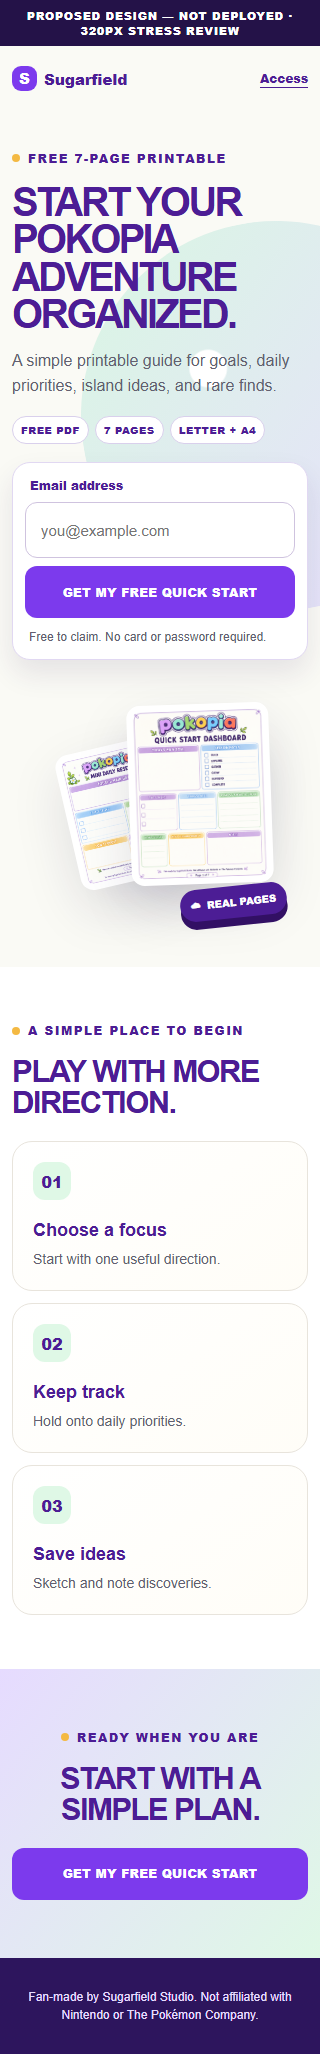
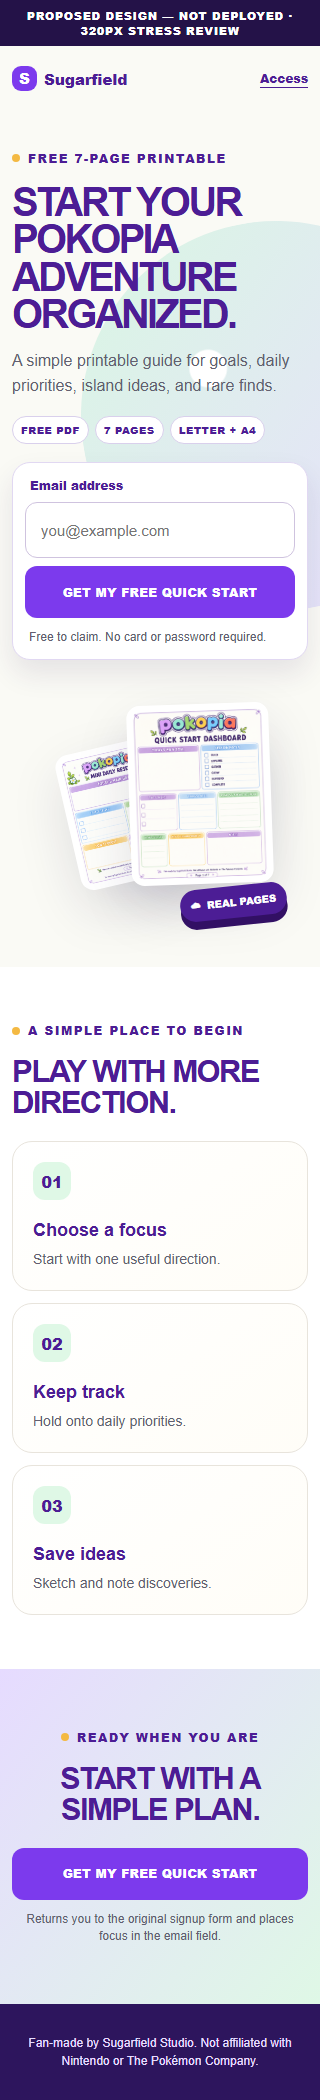
docs: finalize Pokopia Quick Start design approval

diff --git a/docs/funnel-design/phase-2a/previews/quick-start-proposed-1440.html b/docs/funnel-design/phase-2a/previews/quick-start-proposed-1440.html
@@ -1,1 +1,1 @@
-<!doctype html><html lang="en"><head><meta charset="utf-8"><meta name="viewport" content="width=device-width,initial-scale=1"><title>Proposed Pokopia Quick Start — 1440</title><link rel="stylesheet" href="mockup.css"></head><body><p class="proposal">PROPOSED DESIGN — NOT DEPLOYED · 1440PX REVIEW</p><main class="shell"><header class="topbar"><span class="brand"><b>S</b>Sugarfield Studio</span><a class="access" href="#access">Already have access?</a></header><section class="hero"><div class="hero-copy"><p class="eyebrow">FREE 7-PAGE POKOPIA PRINTABLE</p><h1>START YOUR POKOPIA ADVENTURE ORGANIZED.</h1><p class="lede">Plan your next Pokopia session with a simple printable guide for goals, daily priorities, island ideas, and rare finds.</p><div class="facts"><span>FREE PDF</span><span>7 PAGES</span><span>US LETTER + A4</span></div><form class="form-card"><label>Email address</label><div class="form-row"><input placeholder="you@example.com" aria-label="Email address"><button>GET MY FREE QUICK START</button></div><p class="micro">Free to claim. No card or password required.</p></form></div><div class="hero-art art"><figure class="sheet one"><img src="../../../../public/assets/products/pokopia/quick-start/P01_Quick_Start_Dashboard_US_Letter.png" alt="Quick Start Dashboard"></figure><figure class="sheet two"><img src="../../../../public/assets/products/pokopia/quick-start/P02_Mini_Daily_Reset_US_Letter.png" alt="Mini Daily Reset"></figure><figure class="sheet three"><img src="../../../../public/assets/products/pokopia/quick-start/P03_What_Should_I_Work_On_Next_US_Letter.png" alt="What Should I Work On Next"></figure><div class="cloud">REAL PRINTABLE PAGES</div></div></section><section class="band problems"><div class="inner"><p class="eyebrow">A SIMPLE PLACE TO BEGIN</p><h2 class="section-title">WHEN YOU WANT TO PLAY, NOT WONDER WHAT TO DO NEXT.</h2><div class="problem-grid"><article class="problem"><i>01</i><h3>Start with a focus</h3><p>Choose a useful direction for the session before the map gets busy.</p></article><article class="problem"><i>02</i><h3>Remember small tasks</h3><p>Keep daily priorities in one practical, printable place.</p></article><article class="problem"><i>03</i><h3>Save your ideas</h3><p>Make room for island sketches and rare-finds notes as you play.</p></article></div></div></section><section class="band inside"><div class="inner"><p class="eyebrow">A REAL FIVE-PAGE PREVIEW</p><h2 class="section-title">SEE WHAT YOU’LL USE BEFORE YOU CLAIM IT.</h2><p class="section-copy">The pack contains seven pages. These are the five approved preview pages currently available for customer-facing display.</p><div class="preview-grid"><article class="preview-card primary"><img src="../../../../public/assets/products/pokopia/quick-start/P01_Quick_Start_Dashboard_US_Letter.png" alt="Quick Start Dashboard preview"><p>Quick Start Dashboard — set your session focus.</p></article><article class="preview-card"><img src="../../../../public/assets/products/pokopia/quick-start/P02_Mini_Daily_Reset_US_Letter.png" alt="Mini Daily Reset preview"><p>Mini Daily Reset — keep priorities close.</p></article><article class="preview-card"><img src="../../../../public/assets/products/pokopia/quick-start/P05_Rare_Finds_Notes_US_Letter.png" alt="Rare Finds Notes preview"><p>Rare Finds Notes — save discoveries.</p></article></div></div></section><section class="band how"><div class="inner"><p class="eyebrow">HOW ACCESS WORKS</p><h2 class="section-title">A SMALL, SECURE START.</h2><div class="steps"><article class="step"><b>01</b><h3>Enter your email</h3><p>Use the form above to claim the free Quick Start Pack.</p></article><article class="step"><b>02</b><h3>Claim the guide</h3><p>Your claim starts the secure Quick Start access flow.</p></article><article class="step"><b>03</b><h3>Choose a format</h3><p>Access the US Letter or A4 PDF when your access is available.</p></article></div></div></section><section class="band useful"><div class="inner useful-grid"><figure class="closeup"><img src="../../../../public/assets/products/pokopia/quick-start/P04_Quick_Cloud_Island_Sketch_US_Letter.png" alt="Quick Cloud Island Sketch"></figure><div><p class="eyebrow">FOR YOUR NEXT SESSION</p><h2 class="section-title">A LIGHTWEIGHT GUIDE FOR THE MOMENTS YOU WANT A LITTLE DIRECTION.</h2><ul class="checks"><li>Set a goal before you begin.</li><li>Keep daily priorities visible.</li><li>Capture a cloud-island sketch.</li><li>Make a home for rare-finds notes.</li></ul></div></div></section><section id="access" class="final"><div class="inner"><p class="eyebrow">READY WHEN YOU ARE</p><h2 class="section-title">START YOUR NEXT SESSION WITH A SIMPLE PLAN.</h2><p class="section-copy">Claim the free seven-page printable pack. US Letter and A4 formats are included.</p><form class="form-card"><label>Email address</label><div class="form-row"><input placeholder="you@example.com" aria-label="Email address"><button>GET MY FREE QUICK START</button></div><p class="micro">In implementation, this action scrolls and focuses the single primary signup form rather than creating a second submission path.</p></form></div></section><footer class="footer">Fan-made by Sugarfield Studio. Not affiliated with Nintendo or The Pokémon Company. · <a href="#">Privacy</a> · <a href="#">Terms</a></footer></main></body></html>
+<!doctype html><html lang="en"><head><meta charset="utf-8"><meta name="viewport" content="width=device-width,initial-scale=1"><title>Proposed Pokopia Quick Start — 1440</title><link rel="stylesheet" href="mockup.css"></head><body><p class="proposal">PROPOSED DESIGN — NOT DEPLOYED · 1440PX REVIEW</p><main class="shell"><header class="topbar"><span class="brand"><b>S</b>Sugarfield Studio</span><a class="access" href="#access">Already have access?</a></header><section class="hero"><div class="hero-copy"><p class="eyebrow">FREE 7-PAGE POKOPIA PRINTABLE</p><h1>START YOUR POKOPIA ADVENTURE ORGANIZED.</h1><p class="lede">Plan your next Pokopia session with a simple printable guide for goals, daily priorities, island ideas, and rare finds.</p><div class="facts"><span>FREE PDF</span><span>7 PAGES</span><span>US LETTER + A4</span></div><form class="form-card"><label>Email address</label><div class="form-row"><input id="original-signup-form" placeholder="you@example.com" aria-label="Email address"><button>GET MY FREE QUICK START</button></div><p class="micro">Free to claim. No card or password required.</p></form></div><div class="hero-art art"><figure class="sheet one"><img src="../../../../public/assets/products/pokopia/quick-start/P01_Quick_Start_Dashboard_US_Letter.png" alt="Quick Start Dashboard"></figure><figure class="sheet two"><img src="../../../../public/assets/products/pokopia/quick-start/P02_Mini_Daily_Reset_US_Letter.png" alt="Mini Daily Reset"></figure><figure class="sheet three"><img src="../../../../public/assets/products/pokopia/quick-start/P03_What_Should_I_Work_On_Next_US_Letter.png" alt="What Should I Work On Next"></figure><div class="cloud">REAL PRINTABLE PAGES</div></div></section><section class="band problems"><div class="inner"><p class="eyebrow">A SIMPLE PLACE TO BEGIN</p><h2 class="section-title">WHEN YOU WANT TO PLAY, NOT WONDER WHAT TO DO NEXT.</h2><div class="problem-grid"><article class="problem"><i>01</i><h3>Start with a focus</h3><p>Choose a useful direction for the session before the map gets busy.</p></article><article class="problem"><i>02</i><h3>Remember small tasks</h3><p>Keep daily priorities in one practical, printable place.</p></article><article class="problem"><i>03</i><h3>Save your ideas</h3><p>Make room for island sketches and rare-finds notes as you play.</p></article></div></div></section><section class="band inside"><div class="inner"><p class="eyebrow">A REAL FIVE-PAGE PREVIEW</p><h2 class="section-title">SEE WHAT YOU’LL USE BEFORE YOU CLAIM IT.</h2><p class="section-copy">The pack contains seven pages. These are the five approved preview pages currently available for customer-facing display.</p><div class="preview-grid"><article class="preview-card primary"><img src="../../../../public/assets/products/pokopia/quick-start/P01_Quick_Start_Dashboard_US_Letter.png" alt="Quick Start Dashboard preview"><p>Quick Start Dashboard — set your session focus.</p></article><article class="preview-card"><img src="../../../../public/assets/products/pokopia/quick-start/P02_Mini_Daily_Reset_US_Letter.png" alt="Mini Daily Reset preview"><p>Mini Daily Reset — keep priorities close.</p></article><article class="preview-card"><img src="../../../../public/assets/products/pokopia/quick-start/P05_Rare_Finds_Notes_US_Letter.png" alt="Rare Finds Notes preview"><p>Rare Finds Notes — save discoveries.</p></article></div></div></section><section class="band how"><div class="inner"><p class="eyebrow">HOW ACCESS WORKS</p><h2 class="section-title">A SMALL, SECURE START.</h2><div class="steps"><article class="step"><b>01</b><h3>Enter your email</h3><p>Use the form above to claim the free Quick Start Pack.</p></article><article class="step"><b>02</b><h3>Claim the guide</h3><p>Your claim starts the secure Quick Start access flow.</p></article><article class="step"><b>03</b><h3>Choose a format</h3><p>Access the US Letter or A4 PDF when your access is available.</p></article></div></div></section><section class="band useful"><div class="inner useful-grid"><figure class="closeup"><img src="../../../../public/assets/products/pokopia/quick-start/P04_Quick_Cloud_Island_Sketch_US_Letter.png" alt="Quick Cloud Island Sketch"></figure><div><p class="eyebrow">FOR YOUR NEXT SESSION</p><h2 class="section-title">A LIGHTWEIGHT GUIDE FOR THE MOMENTS YOU WANT A LITTLE DIRECTION.</h2><ul class="checks"><li>Set a goal before you begin.</li><li>Keep daily priorities visible.</li><li>Capture a cloud-island sketch.</li><li>Make a home for rare-finds notes.</li></ul></div></div></section><section id="access" class="final"><div class="inner"><p class="eyebrow">READY WHEN YOU ARE</p><h2 class="section-title">START YOUR NEXT SESSION WITH A SIMPLE PLAN.</h2><p class="section-copy">Claim the free seven-page printable pack. US Letter and A4 formats are included.</p><a class="button" href="#original-signup-form">GET MY FREE QUICK START</a><p class="micro">Returns you to the original signup form and places focus in the email field.</p></div></section><footer class="footer">Fan-made by Sugarfield Studio. Not affiliated with Nintendo or The Pokémon Company. · <a href="#">Privacy</a> · <a href="#">Terms</a></footer></main></body></html>

diff --git a/docs/funnel-design/phase-2a/previews/quick-start-proposed-390.html b/docs/funnel-design/phase-2a/previews/quick-start-proposed-390.html
@@ -1,1 +1,1 @@
-<!doctype html><html lang="en"><head><meta charset="utf-8"><meta name="viewport" content="width=device-width,initial-scale=1"><title>Proposed Pokopia Quick Start — 390</title><link rel="stylesheet" href="mockup.css"></head><body><p class="proposal">PROPOSED DESIGN — NOT DEPLOYED · 390PX REVIEW</p><main class="shell"><header class="topbar"><span class="brand"><b>S</b>Sugarfield Studio</span><a class="access" href="#access">Access</a></header><section class="hero"><div class="hero-copy"><p class="eyebrow">FREE 7-PAGE POKOPIA PRINTABLE</p><h1>START YOUR POKOPIA ADVENTURE ORGANIZED.</h1><p class="lede">Plan your next Pokopia session with a simple printable guide for goals, daily priorities, island ideas, and rare finds.</p><div class="facts"><span>FREE PDF</span><span>7 PAGES</span><span>US LETTER + A4</span></div><form class="form-card"><label>Email address</label><div class="form-row"><input placeholder="you@example.com" aria-label="Email address"><button>GET MY FREE QUICK START</button></div><p class="micro">Free to claim. No card or password required.</p></form></div><div class="hero-art art"><figure class="sheet one"><img src="../../../../public/assets/products/pokopia/quick-start/P01_Quick_Start_Dashboard_US_Letter.png" alt="Quick Start Dashboard"></figure><figure class="sheet two"><img src="../../../../public/assets/products/pokopia/quick-start/P02_Mini_Daily_Reset_US_Letter.png" alt="Mini Daily Reset"></figure><figure class="sheet three"><img src="../../../../public/assets/products/pokopia/quick-start/P03_What_Should_I_Work_On_Next_US_Letter.png" alt="What Should I Work On Next"></figure><div class="cloud">REAL PAGES</div></div></section><section class="band problems"><div class="inner"><p class="eyebrow">A SIMPLE PLACE TO BEGIN</p><h2 class="section-title">PLAY WITH A LITTLE MORE DIRECTION.</h2><div class="problem-grid"><article class="problem"><i>01</i><h3>Choose a focus</h3><p>Start with one useful direction.</p></article><article class="problem"><i>02</i><h3>Keep track</h3><p>Hold onto daily priorities.</p></article><article class="problem"><i>03</i><h3>Save ideas</h3><p>Sketch and note discoveries.</p></article></div></div></section><section class="band inside"><div class="inner"><p class="eyebrow">A REAL FIVE-PAGE PREVIEW</p><h2 class="section-title">A FEW PAGES YOU CAN USE RIGHT AWAY.</h2><div class="preview-grid"><article class="preview-card primary"><img src="../../../../public/assets/products/pokopia/quick-start/P01_Quick_Start_Dashboard_US_Letter.png" alt="Quick Start Dashboard"><p>Quick Start Dashboard</p></article><article class="preview-card"><img src="../../../../public/assets/products/pokopia/quick-start/P02_Mini_Daily_Reset_US_Letter.png" alt="Mini Daily Reset"><p>Mini Daily Reset</p></article><article class="preview-card"><img src="../../../../public/assets/products/pokopia/quick-start/P05_Rare_Finds_Notes_US_Letter.png" alt="Rare Finds Notes"><p>Rare Finds Notes</p></article></div></div></section><section class="band how"><div class="inner"><p class="eyebrow">HOW ACCESS WORKS</p><div class="steps"><article class="step"><b>01</b><h3>Enter your email</h3><p>Claim the free guide.</p></article><article class="step"><b>02</b><h3>Secure access</h3><p>Your Quick Start access is prepared.</p></article><article class="step"><b>03</b><h3>Pick a format</h3><p>Choose US Letter or A4.</p></article></div></div></section><section id="access" class="final"><div class="inner"><p class="eyebrow">READY WHEN YOU ARE</p><h2 class="section-title">START WITH A SIMPLE PLAN.</h2><a class="button" href="#">GET MY FREE QUICK START</a></div></section><footer class="footer">Fan-made by Sugarfield Studio. Not affiliated with Nintendo or The Pokémon Company.</footer></main></body></html>
+<!doctype html><html lang="en"><head><meta charset="utf-8"><meta name="viewport" content="width=device-width,initial-scale=1"><title>Proposed Pokopia Quick Start — 390</title><link rel="stylesheet" href="mockup.css"></head><body><p class="proposal">PROPOSED DESIGN — NOT DEPLOYED · 390PX REVIEW</p><main class="shell"><header class="topbar"><span class="brand"><b>S</b>Sugarfield Studio</span><a class="access" href="#access">Access</a></header><section class="hero"><div class="hero-copy"><p class="eyebrow">FREE 7-PAGE POKOPIA PRINTABLE</p><h1>START YOUR POKOPIA ADVENTURE ORGANIZED.</h1><p class="lede">Plan your next Pokopia session with a simple printable guide for goals, daily priorities, island ideas, and rare finds.</p><div class="facts"><span>FREE PDF</span><span>7 PAGES</span><span>US LETTER + A4</span></div><form class="form-card"><label>Email address</label><div class="form-row"><input id="original-signup-form" placeholder="you@example.com" aria-label="Email address"><button>GET MY FREE QUICK START</button></div><p class="micro">Free to claim. No card or password required.</p></form></div><div class="hero-art art"><figure class="sheet one"><img src="../../../../public/assets/products/pokopia/quick-start/P01_Quick_Start_Dashboard_US_Letter.png" alt="Quick Start Dashboard"></figure><figure class="sheet two"><img src="../../../../public/assets/products/pokopia/quick-start/P02_Mini_Daily_Reset_US_Letter.png" alt="Mini Daily Reset"></figure><figure class="sheet three"><img src="../../../../public/assets/products/pokopia/quick-start/P03_What_Should_I_Work_On_Next_US_Letter.png" alt="What Should I Work On Next"></figure><div class="cloud">REAL PAGES</div></div></section><section class="band problems"><div class="inner"><p class="eyebrow">A SIMPLE PLACE TO BEGIN</p><h2 class="section-title">PLAY WITH A LITTLE MORE DIRECTION.</h2><div class="problem-grid"><article class="problem"><i>01</i><h3>Choose a focus</h3><p>Start with one useful direction.</p></article><article class="problem"><i>02</i><h3>Keep track</h3><p>Hold onto daily priorities.</p></article><article class="problem"><i>03</i><h3>Save ideas</h3><p>Sketch and note discoveries.</p></article></div></div></section><section class="band inside"><div class="inner"><p class="eyebrow">A REAL FIVE-PAGE PREVIEW</p><h2 class="section-title">A FEW PAGES YOU CAN USE RIGHT AWAY.</h2><div class="preview-grid"><article class="preview-card primary"><img src="../../../../public/assets/products/pokopia/quick-start/P01_Quick_Start_Dashboard_US_Letter.png" alt="Quick Start Dashboard"><p>Quick Start Dashboard</p></article><article class="preview-card"><img src="../../../../public/assets/products/pokopia/quick-start/P02_Mini_Daily_Reset_US_Letter.png" alt="Mini Daily Reset"><p>Mini Daily Reset</p></article><article class="preview-card"><img src="../../../../public/assets/products/pokopia/quick-start/P05_Rare_Finds_Notes_US_Letter.png" alt="Rare Finds Notes"><p>Rare Finds Notes</p></article></div></div></section><section class="band how"><div class="inner"><p class="eyebrow">HOW ACCESS WORKS</p><div class="steps"><article class="step"><b>01</b><h3>Enter your email</h3><p>Claim the free guide.</p></article><article class="step"><b>02</b><h3>Secure access</h3><p>Your Quick Start access is prepared.</p></article><article class="step"><b>03</b><h3>Pick a format</h3><p>Choose US Letter or A4.</p></article></div></div></section><section id="access" class="final"><div class="inner"><p class="eyebrow">READY WHEN YOU ARE</p><h2 class="section-title">START WITH A SIMPLE PLAN.</h2><a class="button" href="#original-signup-form">GET MY FREE QUICK START</a><p class="micro">Returns you to the original signup form and places focus in the email field.</p></div></section><footer class="footer">Fan-made by Sugarfield Studio. Not affiliated with Nintendo or The Pokémon Company.</footer></main></body></html>

diff --git a/docs/funnel-design/phase-2a/previews/quick-start-proposed-320.html b/docs/funnel-design/phase-2a/previews/quick-start-proposed-320.html
@@ -1,1 +1,1 @@
-<!doctype html><html lang="en"><head><meta charset="utf-8"><meta name="viewport" content="width=device-width,initial-scale=1"><title>Proposed Pokopia Quick Start — 320</title><link rel="stylesheet" href="mockup.css"></head><body><p class="proposal">PROPOSED DESIGN — NOT DEPLOYED · 320PX STRESS REVIEW</p><main class="shell"><header class="topbar"><span class="brand"><b>S</b>Sugarfield</span><a class="access" href="#access">Access</a></header><section class="hero"><div class="hero-copy"><p class="eyebrow">FREE 7-PAGE PRINTABLE</p><h1>START YOUR POKOPIA ADVENTURE ORGANIZED.</h1><p class="lede">A simple printable guide for goals, daily priorities, island ideas, and rare finds.</p><div class="facts"><span>FREE PDF</span><span>7 PAGES</span><span>LETTER + A4</span></div><form class="form-card"><label>Email address</label><div class="form-row"><input placeholder="you@example.com" aria-label="Email address"><button>GET MY FREE QUICK START</button></div><p class="micro">Free to claim. No card or password required.</p></form></div><div class="hero-art art"><figure class="sheet one"><img src="../../../../public/assets/products/pokopia/quick-start/P01_Quick_Start_Dashboard_US_Letter.png" alt="Quick Start Dashboard"></figure><figure class="sheet two"><img src="../../../../public/assets/products/pokopia/quick-start/P02_Mini_Daily_Reset_US_Letter.png" alt="Mini Daily Reset"></figure><figure class="sheet three"><img src="../../../../public/assets/products/pokopia/quick-start/P03_What_Should_I_Work_On_Next_US_Letter.png" alt="What Should I Work On Next"></figure><div class="cloud">REAL PAGES</div></div></section><section class="band problems"><div class="inner"><p class="eyebrow">A SIMPLE PLACE TO BEGIN</p><h2 class="section-title">PLAY WITH MORE DIRECTION.</h2><div class="problem-grid"><article class="problem"><i>01</i><h3>Choose a focus</h3><p>Start with one useful direction.</p></article><article class="problem"><i>02</i><h3>Keep track</h3><p>Hold onto daily priorities.</p></article><article class="problem"><i>03</i><h3>Save ideas</h3><p>Sketch and note discoveries.</p></article></div></div></section><section id="access" class="final"><div class="inner"><p class="eyebrow">READY WHEN YOU ARE</p><h2 class="section-title">START WITH A SIMPLE PLAN.</h2><a class="button" href="#">GET MY FREE QUICK START</a></div></section><footer class="footer">Fan-made by Sugarfield Studio. Not affiliated with Nintendo or The Pokémon Company.</footer></main></body></html>
+<!doctype html><html lang="en"><head><meta charset="utf-8"><meta name="viewport" content="width=device-width,initial-scale=1"><title>Proposed Pokopia Quick Start — 320</title><link rel="stylesheet" href="mockup.css"></head><body><p class="proposal">PROPOSED DESIGN — NOT DEPLOYED · 320PX STRESS REVIEW</p><main class="shell"><header class="topbar"><span class="brand"><b>S</b>Sugarfield</span><a class="access" href="#access">Access</a></header><section class="hero"><div class="hero-copy"><p class="eyebrow">FREE 7-PAGE PRINTABLE</p><h1>START YOUR POKOPIA ADVENTURE ORGANIZED.</h1><p class="lede">A simple printable guide for goals, daily priorities, island ideas, and rare finds.</p><div class="facts"><span>FREE PDF</span><span>7 PAGES</span><span>LETTER + A4</span></div><form class="form-card"><label>Email address</label><div class="form-row"><input id="original-signup-form" placeholder="you@example.com" aria-label="Email address"><button>GET MY FREE QUICK START</button></div><p class="micro">Free to claim. No card or password required.</p></form></div><div class="hero-art art"><figure class="sheet one"><img src="../../../../public/assets/products/pokopia/quick-start/P01_Quick_Start_Dashboard_US_Letter.png" alt="Quick Start Dashboard"></figure><figure class="sheet two"><img src="../../../../public/assets/products/pokopia/quick-start/P02_Mini_Daily_Reset_US_Letter.png" alt="Mini Daily Reset"></figure><figure class="sheet three"><img src="../../../../public/assets/products/pokopia/quick-start/P03_What_Should_I_Work_On_Next_US_Letter.png" alt="What Should I Work On Next"></figure><div class="cloud">REAL PAGES</div></div></section><section class="band problems"><div class="inner"><p class="eyebrow">A SIMPLE PLACE TO BEGIN</p><h2 class="section-title">PLAY WITH MORE DIRECTION.</h2><div class="problem-grid"><article class="problem"><i>01</i><h3>Choose a focus</h3><p>Start with one useful direction.</p></article><article class="problem"><i>02</i><h3>Keep track</h3><p>Hold onto daily priorities.</p></article><article class="problem"><i>03</i><h3>Save ideas</h3><p>Sketch and note discoveries.</p></article></div></div></section><section id="access" class="final"><div class="inner"><p class="eyebrow">READY WHEN YOU ARE</p><h2 class="section-title">START WITH A SIMPLE PLAN.</h2><a class="button" href="#original-signup-form">GET MY FREE QUICK START</a><p class="micro">Returns you to the original signup form and places focus in the email field.</p></div></section><footer class="footer">Fan-made by Sugarfield Studio. Not affiliated with Nintendo or The Pokémon Company.</footer></main></body></html>

diff --git a/docs/funnel-design/phase-2a/previews/mockup.css b/docs/funnel-design/phase-2a/previews/mockup.css
@@ -6,6 +6,6 @@
 .how { background:var(--purple); color:#fff; } .how .eyebrow,.how .section-title { color:#fff; } .steps { display:grid; grid-template-columns:repeat(3,1fr); gap:30px; } .step { padding-top:20px; border-top:1px solid rgb(255 255 255 / .35); } .step b { color:#baf0ca; font-size:13px; letter-spacing:.08em; } .step h3 { margin:28px 0 10px; font-size:22px; } .step p { color:#e8ddff; line-height:1.5; }
 .useful { background:#fff7dc; } .useful-grid { display:grid; grid-template-columns:.9fr 1.1fr; gap:56px; align-items:center; } .closeup { overflow:hidden; border:7px solid #fff; border-radius:22px; background:#fff; box-shadow:var(--shadow); transform:rotate(-3deg); } .closeup img { display:block; width:100%; } .checks { display:grid; gap:12px; padding:0; list-style:none; } .checks li { display:flex; gap:12px; align-items:flex-start; padding:15px 17px; border:1px solid #eadcb2; border-radius:14px; background:#fffdf8; color:#4f4859; line-height:1.4; } .checks li:before { color:#32845a; content:"✓"; font-weight:900; }
 .final { padding:88px 0; background:linear-gradient(130deg,#e6dbff,#dff8e6); text-align:center; } .final .section-title,.final .section-copy { margin-right:auto; margin-left:auto; } .final .form-card { margin:30px auto 0; text-align:left; } .footer { padding:30px 24px; background:#2d155d; color:#e6ddff; font-size:12px; line-height:1.5; text-align:center; } .footer a { color:#fff; text-decoration:underline; }
-.section-only { overflow:hidden; } .section-only .topbar,.section-only .footer { display:none; } .section-only .band,.section-only .hero { min-height:0; padding-top:72px; padding-bottom:72px; } .section-only .hero { overflow:hidden; }
+.section-only { overflow:hidden; } .section-only .topbar { display:none; } .section-only .band,.section-only .hero { min-height:0; padding-top:72px; padding-bottom:72px; } .section-only .hero { overflow:hidden; }
 @media (max-width:700px) { .topbar,.hero,.inner { width:min(100% - 32px,560px); } .topbar { min-height:64px; font-size:12px; } .brand { font-size:15px; } .brand b { width:25px; height:25px; } .hero { display:flex; min-height:0; flex-direction:column; gap:13px; padding:38px 0 44px; } .hero:before { top:13%; right:-55%; width:390px; height:390px; } .hero-copy { width:100%; } h1 { margin-bottom:15px; font-size:clamp(42px,13vw,57px); } .lede { font-size:16px; } .facts { margin:18px 0; } .facts span { padding:7px 9px; font-size:10px; } .art { width:100%; min-height:280px; } .sheet.one { left:26%; width:48%; } .sheet.two { top:22%; left:5%; width:37%; } .sheet.three { top:17%; right:4%; width:35%; } .cloud { right:7%; bottom:2%; padding:9px 11px; font-size:10px; } .form-row { display:grid; gap:8px; } input,button,.button { min-height:52px; width:100%; } .band { padding:54px 0; } .section-title { margin-bottom:23px; font-size:34px; } .section-copy { font-size:16px; } .problem-grid,.steps,.useful-grid { grid-template-columns:1fr; gap:12px; } .problem { min-height:0; padding:20px; } .problem i { margin-bottom:20px; } .preview-grid { grid-template-columns:1fr 1fr; gap:12px; } .preview-card.primary { grid-column:1 / -1; width:82%; margin:auto; } .preview-card:not(.primary),.preview-card:last-child { margin-top:0; } .preview-card:last-child { grid-column:1 / -1; width:70%; margin:auto; } .useful-grid { gap:30px; } .closeup { width:78%; margin:auto; } .final { padding:58px 0; } }
 @media (max-width:340px) { .topbar,.hero,.inner { width:calc(100% - 24px); } h1 { font-size:40px; } .facts { gap:6px; } .facts span { padding:6px 8px; } .art { min-height:250px; } .section-title { font-size:31px; } }

diff --git a/docs/funnel-design/phase-2a/previews/section-final-cta.html b/docs/funnel-design/phase-2a/previews/section-final-cta.html
@@ -1,1 +1,1 @@
-<!doctype html><html lang="en"><head><meta charset="utf-8"><meta name="viewport" content="width=device-width,initial-scale=1"><title>Proposed Final CTA</title><link rel="stylesheet" href="mockup.css"></head><body class="section-only"><p class="proposal">PROPOSED DESIGN — NOT DEPLOYED · FINAL CTA</p><section class="final"><div class="inner"><p class="eyebrow">READY WHEN YOU ARE</p><h2 class="section-title">START YOUR NEXT SESSION WITH A SIMPLE PLAN.</h2><p class="section-copy">Claim the free seven-page printable pack. US Letter and A4 formats are included.</p><form class="form-card"><label>Email address</label><div class="form-row"><input placeholder="you@example.com"><button>GET MY FREE QUICK START</button></div><p class="micro">Implementation scrolls and focuses the original signup form; it does not create a second submission flow.</p></form></div></section></body></html>
+<!doctype html><html lang="en"><head><meta charset="utf-8"><meta name="viewport" content="width=device-width,initial-scale=1"><title>Proposed Final CTA</title><link rel="stylesheet" href="mockup.css"></head><body class="section-only"><p class="proposal">PROPOSED DESIGN — NOT DEPLOYED · FINAL CTA</p><section class="final"><div class="inner"><p class="eyebrow">READY WHEN YOU ARE</p><h2 class="section-title">START YOUR NEXT SESSION WITH A SIMPLE PLAN.</h2><p class="section-copy">Claim the free seven-page printable pack. US Letter and A4 formats are included.</p><a class="button" href="#original-signup-form">GET MY FREE QUICK START</a><p class="micro">Returns you to the original signup form and places focus in the email field.</p></div></section></body></html>

diff --git a/docs/funnel-design/phase-2a/PHASE_2A_4_FINAL_DESIGN_APPROVAL.md b/docs/funnel-design/phase-2a/PHASE_2A_4_FINAL_DESIGN_APPROVAL.md
@@ -1,0 +1,42 @@
+# Phase 2A.4 — Final Design Approval
+
+## Scope
+
+This documentation-and-static-preview-only pass resolves the two P1 items from `PHASE_2A_3_VISUAL_AUDIT.md`. No application route, component, CSS, API, analytics behavior, consent behavior, signup handling, recovery, payment, fulfillment, entitlement, or deployment changed.
+
+## P1 correction results
+
+| Audit finding | Correction | Result |
+| --- | --- | --- |
+| P1-1: Final CTA appeared to be a second signup form | Replaced final-section form markup with one `GET MY FREE QUICK START` button/link and visible explanation that it returns to the original email form and focuses the email field. | PASS |
+| P1-2: Standalone compact-footer PNG was blank | Restored the footer display in section-only preview mode and regenerated the footer artifact using the approved Sugarfield Studio/fan-made/legal content. | PASS |
+
+## Updated preview artifacts
+
+- `previews/quick-start-proposed-1440.html/.png`
+- `previews/quick-start-proposed-390.html/.png`
+- `previews/quick-start-proposed-320.html/.png`
+- `previews/section-final-cta.html/.png`
+- `previews/section-compact-footer.html/.png`
+- `previews/mockup.css`
+
+## Visual consistency review
+
+All ten PNGs were re-rendered and pixel-inspected after the changes.
+
+- Full-page desktop, 390px, and 320px previews now show one hero email form only.
+- Final CTA is a button/link across desktop and mobile and explicitly communicates return/focus behavior.
+- The standalone footer is visible and matches the full-page fan-made disclaimer and applicable Privacy/Terms links where the desktop blueprint includes them.
+- No product-preview reference outside approved P01–P05 files appears in the static HTML.
+- Copy remains aligned with the approved Phase 2A value proposition; no delivery-time, testimonial, statistical, scarcity, official-affiliation, or unsupported feature claim was introduced.
+
+## Remaining P2 items
+
+1. Static previews cannot demonstrate actual keyboard focus, click behavior, preserved form input, reduced-motion behavior, computed contrast, or fixed-consent overlay behavior. These require Phase 2B browser/accessibility verification.
+2. The player-problem and benefits sections intentionally overlap in theme; retain them unless later implementation measurement shows excess mobile scroll burden.
+
+## Final readiness classification
+
+**APPROVE FOR PHASE 2B — design blueprint complete.**
+
+This approval covers the design blueprint only. Phase 2B implementation still requires explicit user authorization and must preserve all Phase 2A.1/2A.2 protections and current server-authoritative funnel behavior.

diff --git a/docs/funnel-design/phase-2a/COMPONENT_AND_RESPONSIVE_SPEC.md b/docs/funnel-design/phase-2a/COMPONENT_AND_RESPONSIVE_SPEC.md
@@ -9,7 +9,7 @@
 
 ## Proposed presentational composition for Phase 2B
 
-Use presentational sections only: `QuickStartHero`, `QuickStartProblemStrip`, `QuickStartPreviewGallery`, `QuickStartAccessSteps`, `QuickStartBenefits`, and `QuickStartFinalCta`. They consume existing event handlers and assets; they do not own API calls, cookies, storage, pricing, or route logic.
+Use presentational sections only: `QuickStartHero`, `QuickStartProblemStrip`, `QuickStartPreviewGallery`, `QuickStartAccessSteps`, `QuickStartBenefits`, and `QuickStartFinalCta`. They consume existing event handlers and assets; they do not own API calls, cookies, storage, pricing, or route logic. `QuickStartFinalCta` is a button/link only: it scrolls to the existing hero email input, moves focus there, and must not submit, clear input, or emit a signup event.
 
 ## Breakpoint rules
 

diff --git a/docs/funnel-design/phase-2a/LANDING_PAGE_SECTION_BLUEPRINT.md b/docs/funnel-design/phase-2a/LANDING_PAGE_SECTION_BLUEPRINT.md
@@ -7,7 +7,7 @@
 3. **What’s inside:** A five-page approved-artwork gallery with page names and concise supported uses.
 4. **How access works:** Enter email → claim the guide → access Letter/A4 PDFs when access is available. No email-timing promise.
 5. **Why useful:** Supported outcomes tied to the actual pages: session focus, daily priorities, sketching, and notes.
-6. **Final CTA:** Same message and CTA; implementation scrolls/focuses the existing hero form, preserving one submission implementation and analytics event sequence.
+6. **Final CTA:** One button, not a second email form; implementation scrolls to and focuses the existing hero form while preserving its input, one submission implementation, and analytics event sequence.
 7. **Compact footer:** Existing fan-made disclaimer and privacy/terms links.
 
 ## Verified page references

diff --git a/docs/funnel-design/phase-2a/PHASE_2A_DESIGN_APPROVAL_CHECKLIST.md b/docs/funnel-design/phase-2a/PHASE_2A_DESIGN_APPROVAL_CHECKLIST.md
@@ -9,6 +9,8 @@
 - [ ] Accept the documented gap: no approved preview artwork for pages six and seven.
 - [ ] Approve proposed recovery prominence and final-CTA focus behavior.
 - [ ] Approve static mockup art direction and responsive specifications.
+- [ ] Confirm the final CTA is one button that returns focus to the original signup form; no second form is shown or implemented.
+- [ ] Confirm the compact footer preview visibly matches the approved funnel footer content.
 - [ ] Confirm no changes to consent, analytics, signup, API, recovery, checkout, fulfillment, or entitlement logic.
 - [ ] Confirm no live delivery, payment, customer, or production validation is implied by the design blueprint.
 
